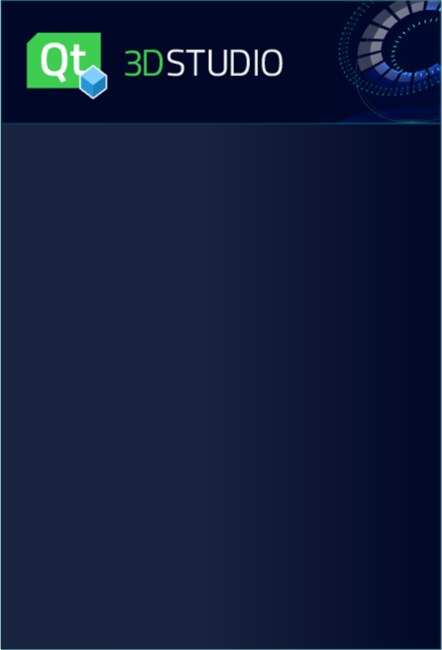
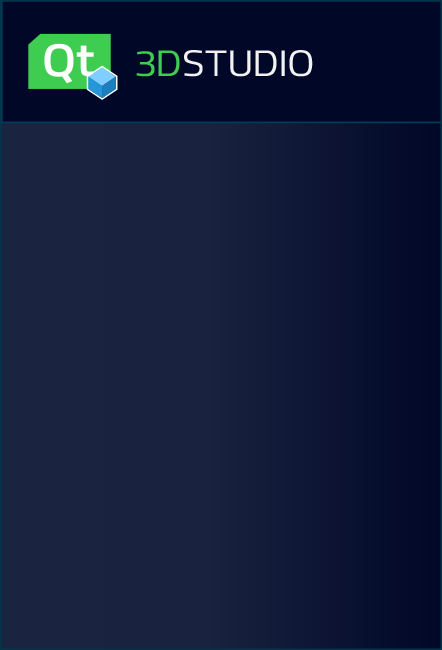
Update open dialog
Updated background image and added two recent files to make the list
little less sparse.

diff --git a/src/Authoring/Studio/_Win/UI/StartupDlg.h b/src/Authoring/Studio/_Win/UI/StartupDlg.h
@@ -76,7 +76,7 @@ public:
     virtual ~CStartupDlg();
 
 protected:
-    const static int RECENT_COUNT = 5;
+    const static int RECENT_COUNT = 7;
 
     void paintEvent(QPaintEvent *event) override;
     void showEvent(QShowEvent *) override;
